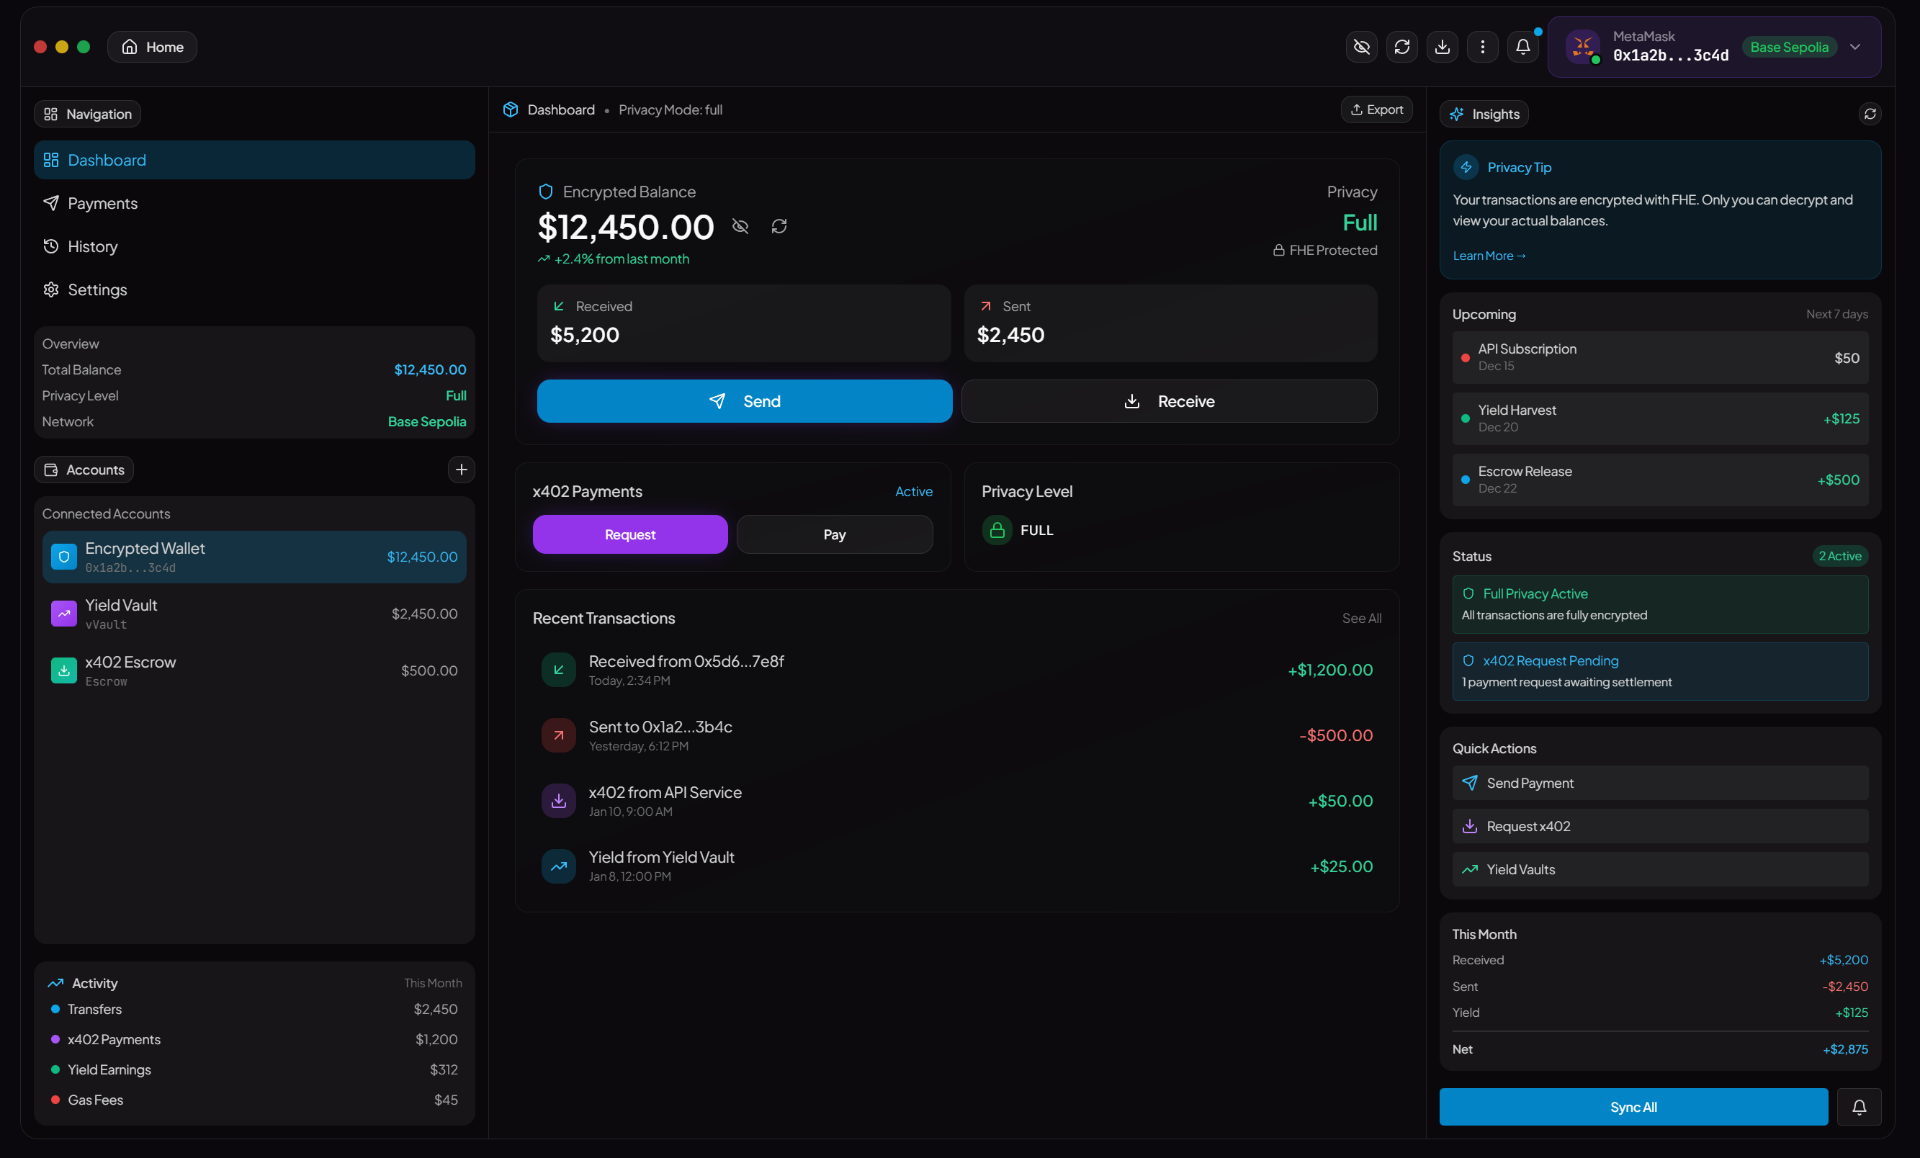
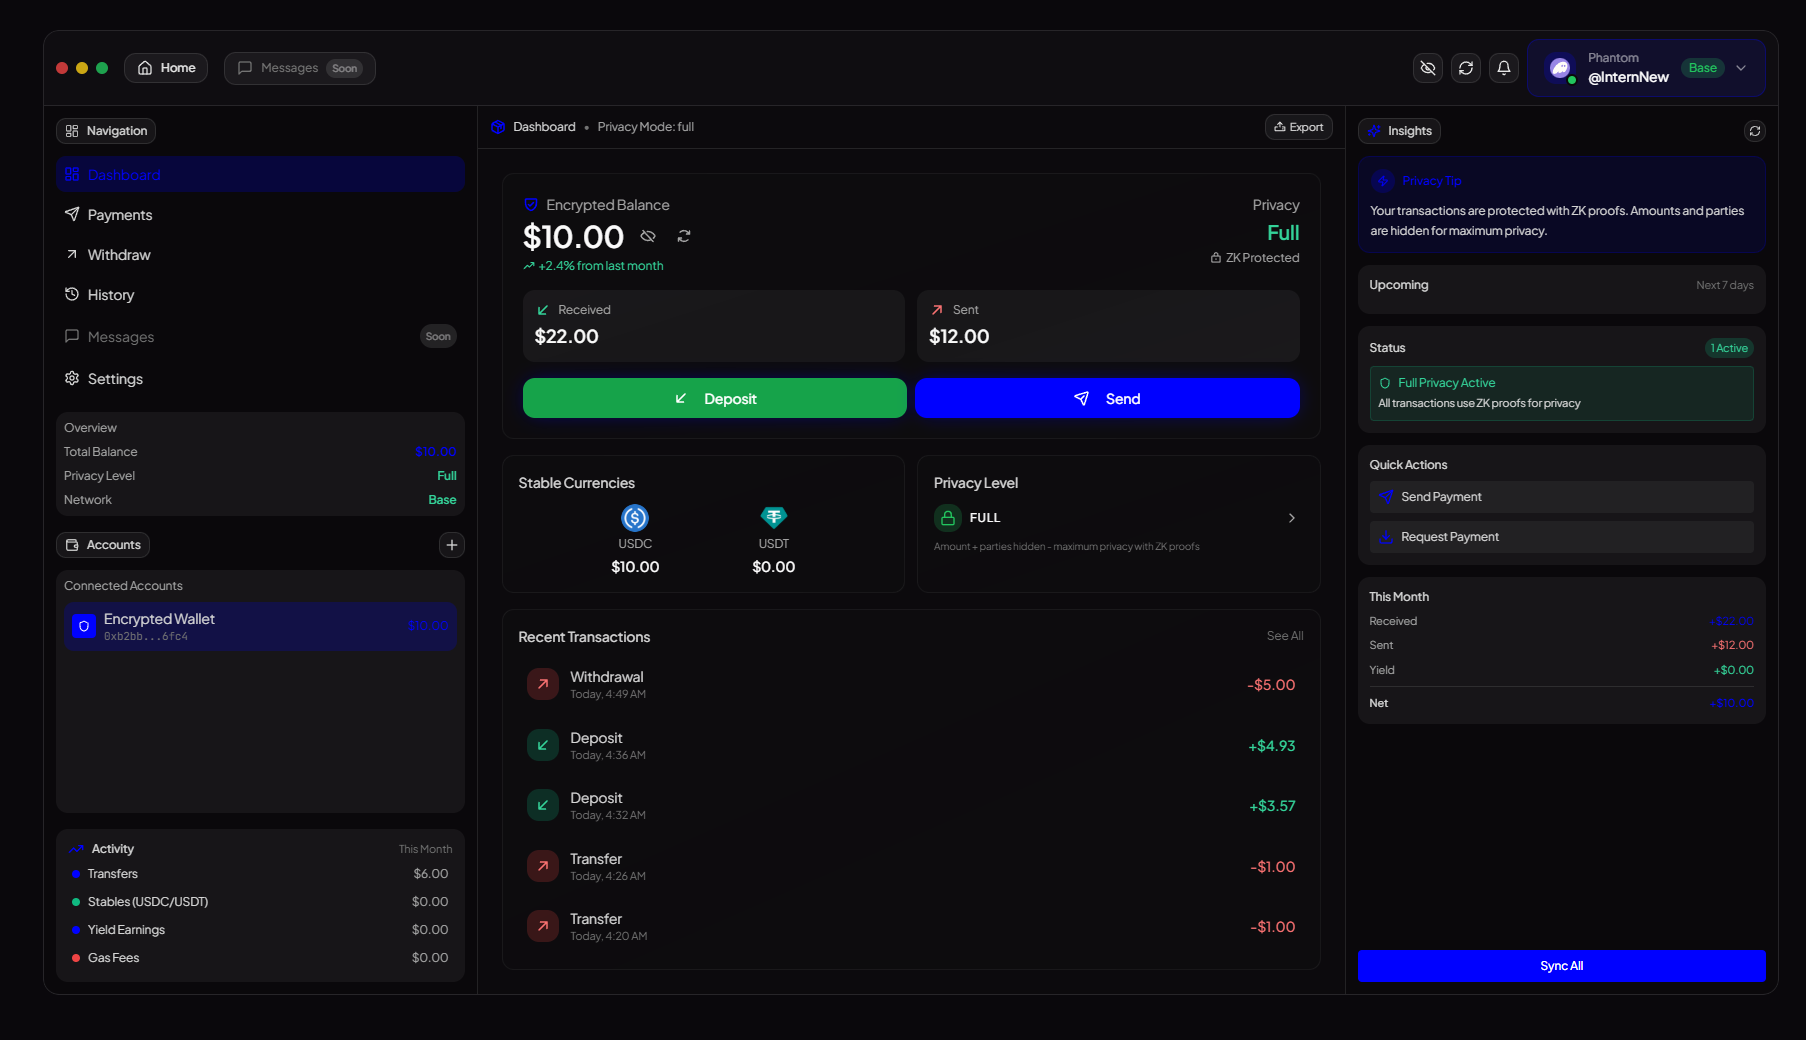
Update dashboard preview image and fix purple HSL colors to #0001ff

diff --git a/src/components/TechStackSection.tsx b/src/components/TechStackSection.tsx
@@ -166,7 +166,7 @@ const TechStackSection = () => {
               {/* Animated data packet */}
               <motion.circle
                 r="1.5"
-                fill="hsl(262, 83%, 58%)"
+                fill="#0001ff"
                 filter="url(#glow)"
                 animate={{
                   cx: networkNodes.slice(0, 10).filter(n => n.connected).map(n => n.x),
@@ -182,7 +182,7 @@ const TechStackSection = () => {
                     cx={node.x}
                     cy={node.y * 0.6}
                     r={node.connected ? 2 : 1}
-                    fill={node.connected ? "hsl(262, 83%, 58%)" : "rgba(255,255,255,0.2)"}
+                    fill={node.connected ? "#0001ff" : "rgba(255,255,255,0.2)"}
                     initial={{ scale: 0 }}
                     animate={{ scale: 1 }}
                     transition={{ delay: node.delay, type: "spring" }}